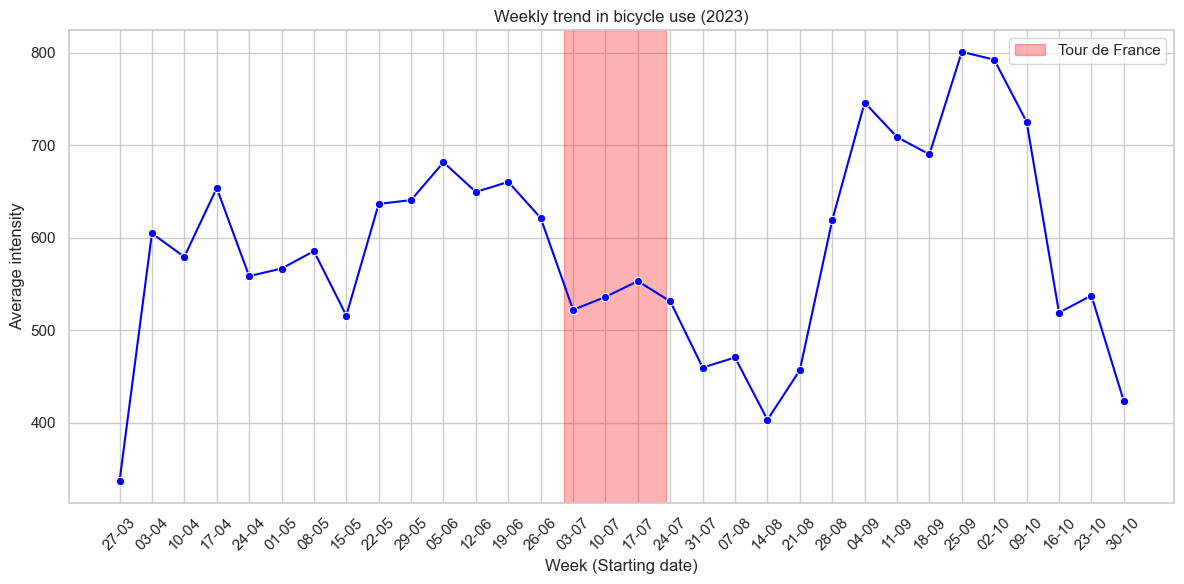
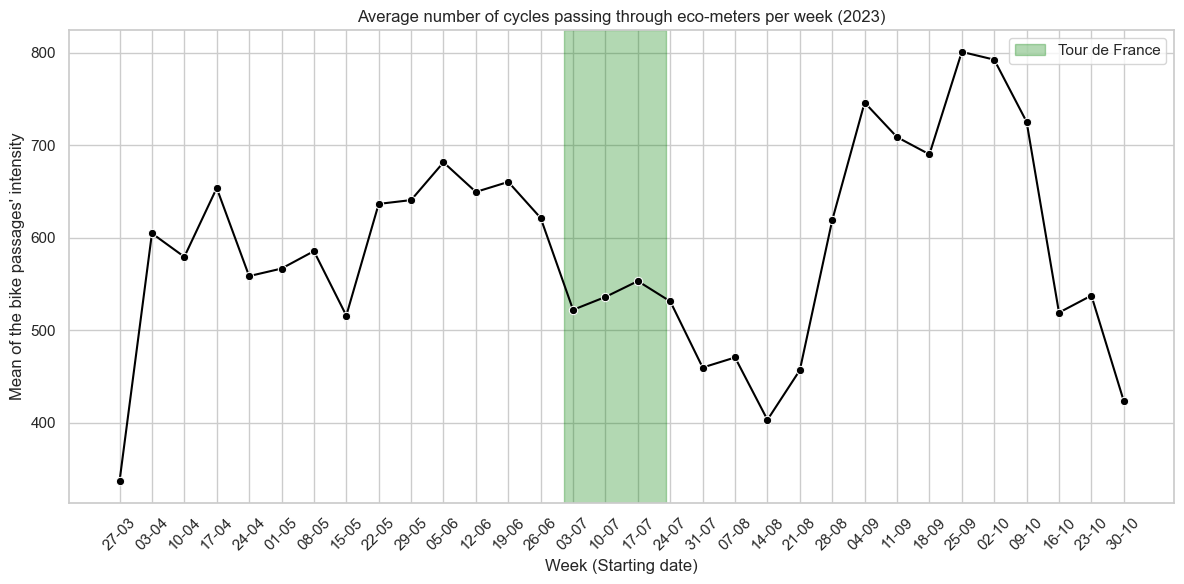
Final statistical page and graphs

diff --git a/Code/Scripts/Website/docs/page1/page1_3.html b/Code/Scripts/Website/docs/page1/page1_3.html
@@ -167,27 +167,16 @@ Statistics <i class="fas fa-chart-line"></i>
 <section id="introduction" class="level2">
 <h2 class="anchored" data-anchor-id="introduction">Introduction</h2>
 <p class="text">
-On this page, we present a statistical analysis of bicycle traffic data in Montpellier from April to October 2023.
+On this page, we present a short preliminary statistical analysis of the data we selected (see home page for a detailed explanation of our data).
 </p>
-<ul class="text">
-<li>
-Just before the Tour de France.
-</li>
-<li>
-During the Tour de France.
-</li>
-<li>
-Just after the Tour de France.
-</li>
-</ul>
 <p class="text">
-To answer this question, we used the collected data (described on the homepage) to perform statisctical analyses that would confirm or refute our initial hypothesis. We expected to observe an increase in bicycle usage during the Tour de France due to the popularity of the event and its potential influence on local behaviour.
+Our question was ‘What is the impact of the 2023 Tour de France on bicycle usage in Montpellier, and how have cyclists’ behaviors evolved before and after this major event?’ and we hypothesized that there would be an increase in the number of people cycling during the Tour de France period. A sporting event like this encourages people to get back into sport, and cycling in particular.
 </p>
 </section>
 <section id="methods" class="level2">
 <h2 class="anchored" data-anchor-id="methods">Methods</h2>
 <p class="text">
-We used cleaned data files that recorded the daily number of cyclists in Montpellier, and compiled them into a single dataset. The statistical analyses focused on the following periods :
+We used sorted data corresponding to the number of bicycles passing in front of counters located in the city of Montpellier and compiled them into a single dataset. The statistical analyses focused on the following periods :
 </p>
 <ul class="text">
 <li>
@@ -201,25 +190,33 @@ After the Tour de France : late July to October.
 </li>
 </ul>
 <p class="text">
-The data were aggregated by day to compute the mean and standard deviation of the intensity of bicycle traffic. Temporal trends were visualized using line plots, and we compared descriptive statistics for each period.
+We carried out a number of statistical analyses to see if our hypothesis could be validated. These analyses are not intended to be taken literally, as there are many other parameters to be taken into account, but they are a short preliminary study of our data.
+</p>
+<p class="text">
+We began by performing descriptive analyses to give us a visual representation of our data. We then carried out tests to check the normality and homogeneity of the variances in order to choose the appropriate statistical test. Finally, we performed the test and compared the results with our hypothesis.
 </p>
 </section>
 <section id="results" class="level2">
 <h2 class="anchored" data-anchor-id="results">Results</h2>
-<p>We have made</p>
+<p class="text">
+We started by conducting descriptive analyses to get a first idea of our data. We found an average of 610.06 passes in front of eco-counters during the period before the Tour de France 523.07 passes during the Tour de France and 599.80 passes after the Tour de France. We see that there seems to be a slight decrease during the Tour de France, which would be the opposite of our hypothesis, but we will see if this difference is significant.
+</p>
+<p class="text">
+Following our descriptive analyses, we obtained the following graph:
+</p>
 <p><img src="../images/Graph_1.png" alt="Graph_1" width="1000px"></p>
 <p class="text">
-This graph below shows the averag week intensity of bicycle traffic from April to October 2023, highlighting the period of the Tour de France.
+This graph shows the total number of bicycles passing in front of the city of Montpellier’s eco-counters per week. Please note that this data does not correspond to the number of bicycles, as a bicycle may be counted several times if it passes in front of several counters. This data therefore corresponds to the total number of journeys made by cyclists in Montpellier (number of times they pass in front of a counter). We can see that the Tour de France period is highlighted in green.
 </p>
 <p class="text">
-The results indicate changes in bicycle usage throughout the study period. We observed that the average daily bicycle count before July was ?X cyclist per day?, compared to ?Y cyclists par day? during the Tour de France, and ?Z cyclists per day? after de Tour de France.
+Visually, we can see that there does not seem to be an increase during the period of the Tour de France compared with the periods before and after. We also note that there is a sharp decrease in the number of crossings in front of a meter during the period of August and that it goes back to early September.
 </p>
 <p class="text">
-The computed standard deviations for these periods were similar, suggesting comparable variability in bicycle usage before, during, and after the Tour de France. Howevers, no significant differences were observed between the means of the different periods, indicating that the event did not have a substantial impact on bicycle usage in Montpellier.
+We then continued by checking the homogeneity of variances and normality. Then, given that normality was not verified, we performed a Kruskal Wallis test (because we had several independent groups and only one variable of interest). We obtained the following graph to represent the differences between our groups.
 </p>
 <p><img src="../images/Graph_2.png" alt="Graph_2" width="800px"></p>
 <p class="text">
-This graph represent the distribution of average bicycle usage in Montpellier across three different periods relative to the Tour de France.
+This graph is a boxplot that represents the number of passes in front of eco-counters according to our three periods of interest.
 </p>
 <ul class="text">
 <li>
@@ -233,22 +230,22 @@ The whiskerw extend to the smallest and largest values within 1.5 times the inte
 </li>
 </ul>
 <p class="text">
-By comparing the three periods, we can observe any changes in bicycle usage that might be linked to the Tour de France event.
+Our analyses by the test of Kruskal Wallis showed us that there did not seem to be a significant difference between our different periods in terms of the number of passages in front of eco-counters of the vulle de Montpellier. Indeed, we found a p-value of 0.16 and an H-value of 3.59. Thus, the differences do not seem to be significant.
 </p>
 </section>
 <section id="discussion" class="level2">
 <h2 class="anchored" data-anchor-id="discussion">Discussion</h2>
 <p class="text">
-The analyses indicate that the Tour de France did not have a significant effect on bicycle traffic in Montpellier in 2023. Instead, the observed variations seems to align more closely with the summer vacation period, which generally starts at the beginning of July and lasts until the end of August. We noticed a decrease in bicycle usage during this time, foloowed by a marked increase from September onwards, likely corresponding to the return to school and work after the holidays.
+Our analyses seem to show that there is no significant difference in the number of cycles passing through eco-counters in the city of Montpellier between the periods before, during and after the Tour de France. However, if we look at the first graph we got, we can say that this evolution could be linked to other factors such as school and work holiday periods. Indeed, we note that there is a decrease at the beginning of the summer holiday period (July) and that seems to be accentuated during the August period. In addition, at the beginning of September, during the school year, there seems to be a strong increase in the number of bicycle trips.
 </p>
 <p class="text">
-These findings suggest that bicycle usage patterns in Montpellier are more influenced by the school calendar and typical work periods than by occasional sporting events like the Tour de France, execpt when the event directly passes through the city, which was not the case in 2023.
+Thus, it would be interesting to do more detailed analyses than those we have done, but also to look at the link with school holidays.
 </p>
 </section>
 <section id="conclusion" class="level2">
 <h2 class="anchored" data-anchor-id="conclusion">Conclusion</h2>
 <p class="text">
-Our hypothesis that the Tour de France would significantly increase bicycle traffic in Montpellier was not supported by the data. Instead, the influence of the summer vacation period was much more pronounced. For further research, it would be interesting to analyze data over multiple years, especially when the Tour de France stage passes through Montpellier, to see of a stronger local effect can be observed in these circumstances.
+To conclude, from these preliminary analyses, we did not validate our hypothesis that the Tour de France had a positive impact on bicycle use in the city of Montpellier. But we have shown that it would be interesting to use other sources to justify these trends.
 </p>
 
 

diff --git a/Code/Scripts/Statistics.py b/Code/Scripts/Statistics.py
@@ -65,17 +65,17 @@ weekly_data = df.groupby(['year', 'week', 'week_start'])['intensity'].mean().res
 
 # Draw the graph
 plt.figure(figsize=(12, 6))
-sns.lineplot(data=weekly_data, x='week_start', y='intensity', marker='o', color='blue')
+sns.lineplot(data=weekly_data, x='week_start', y='intensity', marker='o', color='black')
 
 # Title and labels
-plt.title("Weekly trend in bicycle use (2023)")
+plt.title("Average number of cycles passing through eco-meters per week (2023)")
 plt.xlabel("Week (Starting date)")
-plt.ylabel("Average intensity")
+plt.ylabel("Mean of the bike passages' intensity")
 
 # Add a coloured background to highlight the period of the Tour de France
 tour_de_france_start = pd.to_datetime('2023-07-01')
 tour_de_france_end = pd.to_datetime('2023-07-23')
-plt.axvspan(tour_de_france_start, tour_de_france_end, color='red', alpha=0.3, label="Tour de France")
+plt.axvspan(tour_de_france_start, tour_de_france_end, color='green', alpha=0.3, label="Tour de France")
 
 # Customise the dates on the x axis to display the start of week dates
 plt.xticks(weekly_data['week_start'], labels=weekly_data['week_start'].dt.strftime('%d-%m'), rotation=45)
@@ -171,13 +171,13 @@ plt.figure(figsize=(10, 6))
 plt.boxplot(data_to_plot, 
             labels=['Before Tour de France', 'During Tour de France', 'After Tour de France'], 
             patch_artist=True, 
-            boxprops=dict(facecolor="#5dade2", color="#5dade2"),
+            boxprops=dict(facecolor="#209f59", color="#209f59"),
             flierprops=dict(markerfacecolor='r', marker='o'),
             medianprops=dict(color='red', linewidth=2))
             
 # Customise the graphic
-plt.title("Comparison of the frequency of bicycle use before, during and after the Tour de France")
-plt.ylabel("Average number of visits")
+plt.title("Boxplot of the number of bike rides in front of eco-counters according to periods of interest")
+plt.ylabel("Mean of the bike passages' intensity")
 plt.grid(True)
 plt.tight_layout()
 plt.show()
